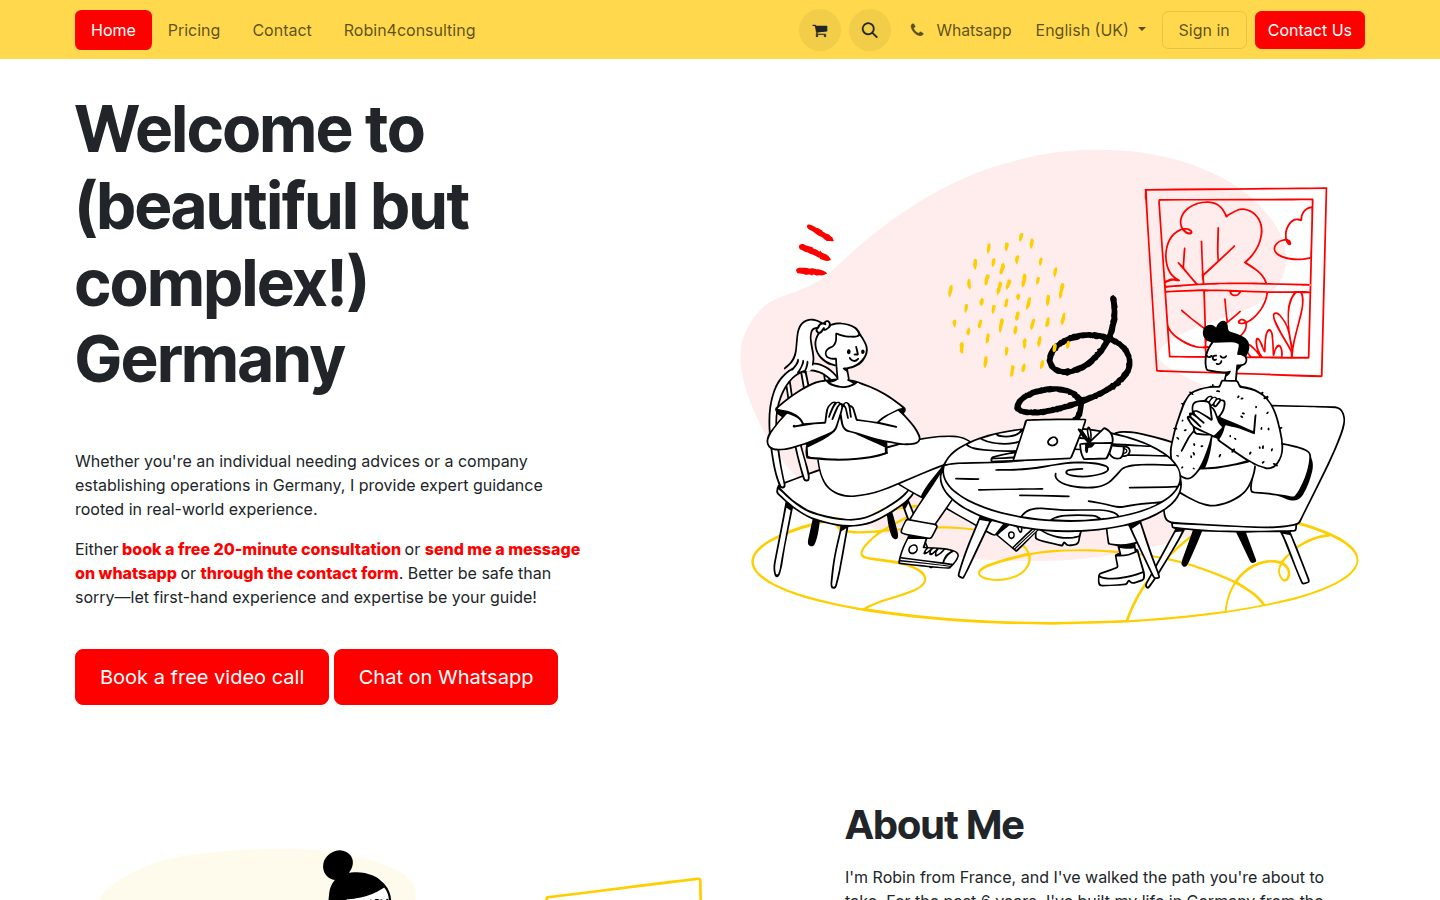
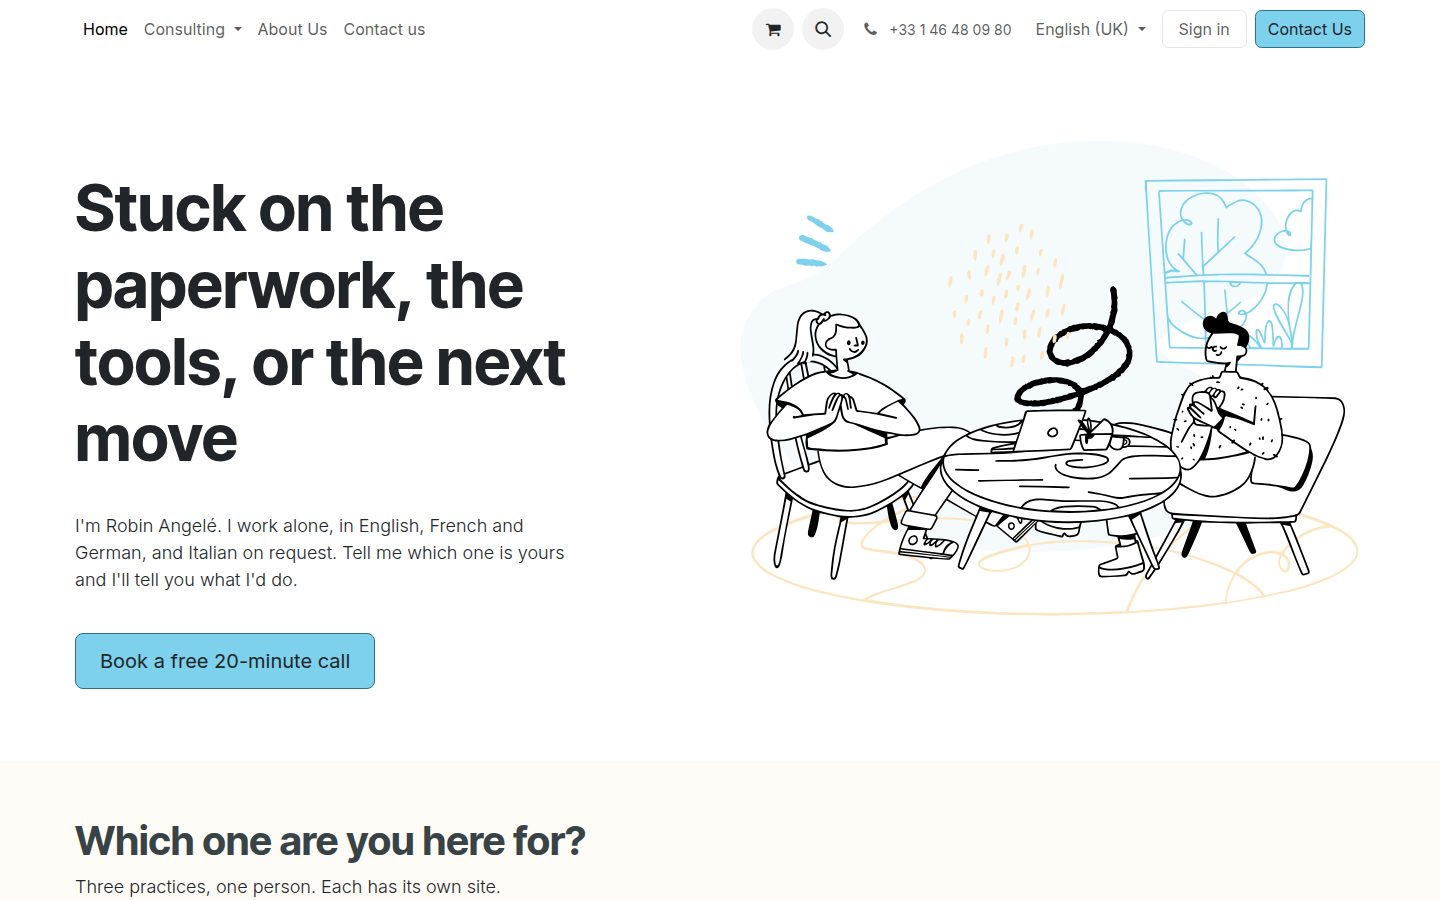
Present Robin4consulting as the umbrella site for its three services
robin4consulting.com is now the main site for three practices, each with
its own subdomain (germany., it., coaching.). Update the project stack
line and description (EN/DE/FR), link to the main domain and replace the
preview with a screenshot of the new homepage.

Claude-Session: https://claude.ai/code/session_0142JEPee5BzmsFy4RPKH5nC

diff --git a/src/app/projects/projects-area/projects-area.component.ts b/src/app/projects/projects-area/projects-area.component.ts
@@ -25,7 +25,7 @@ export class ProjectsAreaComponent {
       titleKey: 'PROJECTS.PROJECT_ROBIN4CONSULTING.TITLE',
       stackKey: 'PROJECTS.PROJECT_ROBIN4CONSULTING.STACK',
       descriptionKey: 'PROJECTS.PROJECT_ROBIN4CONSULTING.DESCRIPTION',
-      projectUrl: 'https://www.robin4consulting.com',
+      projectUrl: 'https://robin4consulting.com',
       prevImageUrl: 'assets/img/preview_robin4consulting.jpg',
       ctaKey: 'PROJECTS.VISIT_SITE'
     },
